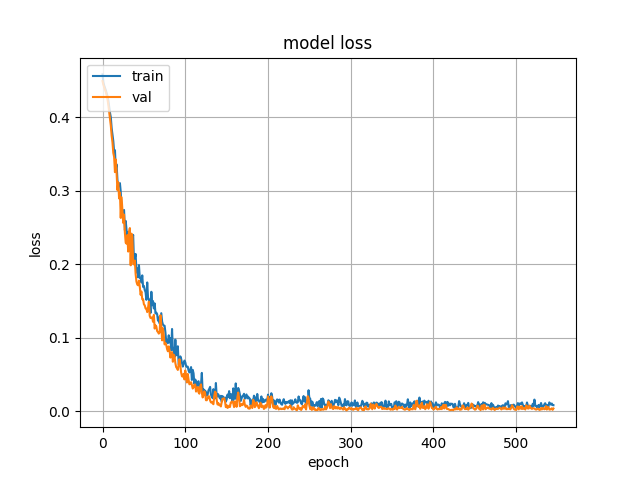
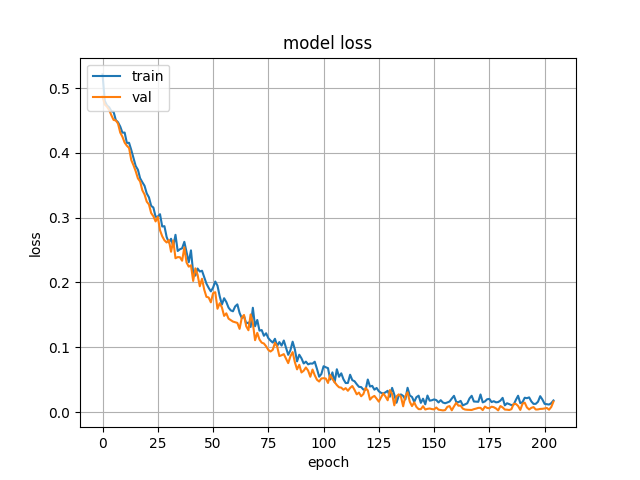
retest

diff --git a/Method_2/PrTrain_CV_CSVinput_.py b/Method_2/PrTrain_CV_CSVinput_.py
@@ -103,7 +103,7 @@ import tensorflow as tf
 SelectedModel = models.ModelOfPaper()
 SelectedModel.summary()
 SelectedModel.save_weights('SavedInitialWeights_tensors.h5')
-callback_stopEarly = tf.keras.callbacks.EarlyStopping(monitor='val_loss', patience=250, restore_best_weights=True)
+callback_stopEarly = tf.keras.callbacks.EarlyStopping(monitor='val_loss', patience=50, restore_best_weights=True)
 callbacK_nan = tf.keras.callbacks.TerminateOnNaN()
 
 ''' ######################################## '''
